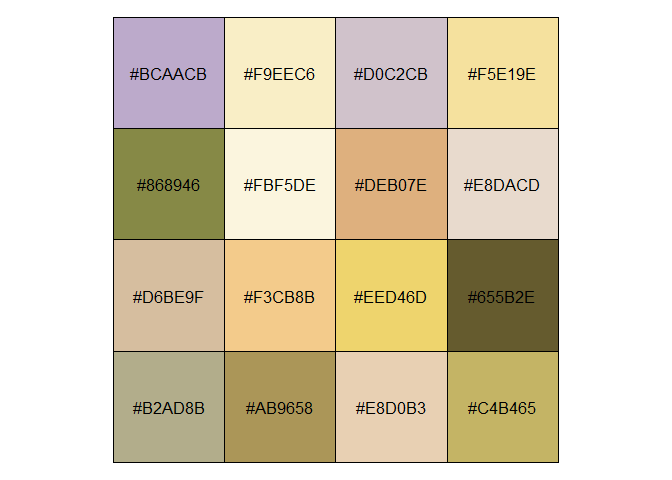
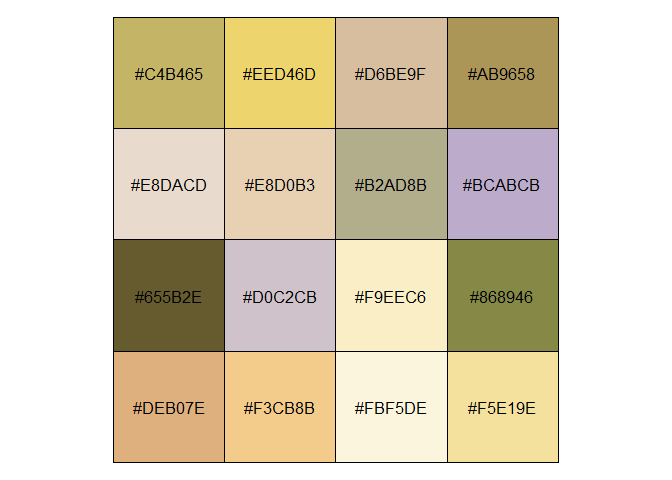
compacted display of multiple palettes

diff --git a/README.md b/README.md
@@ -35,6 +35,7 @@ Load libraries.
     library(scales) #just for for the show_col() function
     library(ggsci) #to compare my palettes to its palettes
     library(ggfortify) #to support kmeans plots
+    library(gridExtra) #multiple plots on a page
 
 Load mulitple images. They are all Google image search thumbnails so the
 size is the same. This matters since we are combining images. A larger
@@ -225,42 +226,28 @@ to create a series of palettes.
       return(pal)
     }
 
-    show_pal<- function(img_name,palette_rick){
+    plot_one<-function(pal_name){
+      tmp <- palette_rick %>% unnest() %>% filter(name==pal_name)
+      g<- ggplot(tmp,aes(pal,fill=pal)) + geom_bar() + 
+      scale_fill_manual(values=tmp$pal,guide=F) +
+      theme_void()+ggtitle(pal_name)
+      return (g)
       
-    palette_rick %>% 
-        filter(name==img_name) %>% 
-        select(pal) %>% 
-        unlist() %>% 
-        my_show_col(label = img_name,labels = F)  
-    # BTW, If you hate verbose pipes, here is the non-dplyr way of getting the same thing.
-    #by_name[by_name$name=="Wedding",]$pal[[1]] %>% show_col()
     }
 
-![Cable](img/rm3.jpg)
+    lapply(palette_rick$name,plot_one) %>% 
+      grid.arrange(grobs=.)
 
-    show_pal("Cable",palette_rick)
+![](README_files/figure-markdown_strict/unnamed-chunk-11-1.png)
 
-![](README_files/figure-markdown_strict/unnamed-chunk-13-1.png)
-
-![Schwifty](img/rm1.jpg)
-![](README_files/figure-markdown_strict/unnamed-chunk-14-1.png)
-
-![Portal](img/rm2.jpg)
-![](README_files/figure-markdown_strict/unnamed-chunk-15-1.png)
-![Family](img/rm4.jpg)
-![](README_files/figure-markdown_strict/unnamed-chunk-16-1.png)
-![Outdoor](img/rm5.jpg)
-![](README_files/figure-markdown_strict/unnamed-chunk-17-1.png)
-![Wedding](img/rm6.jpg)
-![](README_files/figure-markdown_strict/unnamed-chunk-18-1.png) Finally,
-let's do what we said we'd do at the beginning, put all these images
-together and add it to our list column of palettes.
+Finally, let's do what we said we'd do at the beginning, put all these
+images together and add it to our list column of palettes.
 
     multi_img_pal <- gen_pal(rm_list)
     palette_rick<-data_frame(name="all",pal=list(multi_img_pal)) %>% bind_rows(palette_rick)
     show_col(multi_img_pal)
 
-![](README_files/figure-markdown_strict/unnamed-chunk-19-1.png)
+![](README_files/figure-markdown_strict/unnamed-chunk-12-1.png)
 
 Not too bad. I'm glad something resembling Rick's hair makes it into the
 list. Compare it to the ggsci package Rick and Morty palette. Here we
@@ -270,7 +257,7 @@ selected. You can see Rick's hair and Morty's shirt color.
 
     show_col(ggsci::pal_rickandmorty()(9))
 
-![](README_files/figure-markdown_strict/unnamed-chunk-20-1.png)
+![](README_files/figure-markdown_strict/unnamed-chunk-13-1.png)
 
 Since the (rather flimsy) point of this excercise is to make palettes
 for data graphics, let's make some plots.
@@ -288,13 +275,13 @@ for data graphics, let's make some plots.
     ggplot(stocksm,aes(time,price,color=stock))+geom_line(size=2)+
       scale_color_manual(values = multi_img_pal) + theme_minimal()
 
-![](README_files/figure-markdown_strict/unnamed-chunk-21-1.png)
+![](README_files/figure-markdown_strict/unnamed-chunk-14-1.png)
 
     ggplot(stocksm,aes(time,price,color=stock))+geom_line(size=2) +
       theme_minimal() +
       scale_color_manual(values = extract_pal(palette_rick,"Wedding"))
 
-![](README_files/figure-markdown_strict/unnamed-chunk-22-1.png)
+![](README_files/figure-markdown_strict/unnamed-chunk-15-1.png)
 Arguably, the perceptual differnces among the colors are less than
 ideal, even if the colors are pleasing. We might take the additional
 step of hand-selecting colors from a larger generated palette that are
@@ -321,7 +308,7 @@ of colors to 20.
       scale_color_manual(values=rgb(km$centers),guide=FALSE)+
       theme_classic()
 
-![](README_files/figure-markdown_strict/unnamed-chunk-23-1.png) This is
+![](README_files/figure-markdown_strict/unnamed-chunk-16-1.png) This is
 every pixel colored by it's cluster assignment and plotted. It's clear
 that the x-dimension, which happens to explain 74% of the color
 variance, is luminosity, with darker shades on the right. The other
@@ -334,11 +321,13 @@ component.
     autoplot(prcomp(rm_list[c("R","G","B")]), x=2,y=3,data = rm_list, colour = "cluster",
              loadings = TRUE, loadings.colour = 'blue',
              loadings.label = TRUE, loadings.label.size = 10) +
-      scale_color_manual(values=rgb(km$centers),guide=FALSE)+
+      scale_color_manual(values=rgb(km$centers),guide=F)+
       theme_classic()
 
-![](README_files/figure-markdown_strict/unnamed-chunk-24-1.png)
+![](README_files/figure-markdown_strict/unnamed-chunk-17-1.png)
 
 Now it's quite clear that the second and third principal components map
 to the color space even though this explains only about 25% of the
 variation in the data.
+
+\`\`\`
